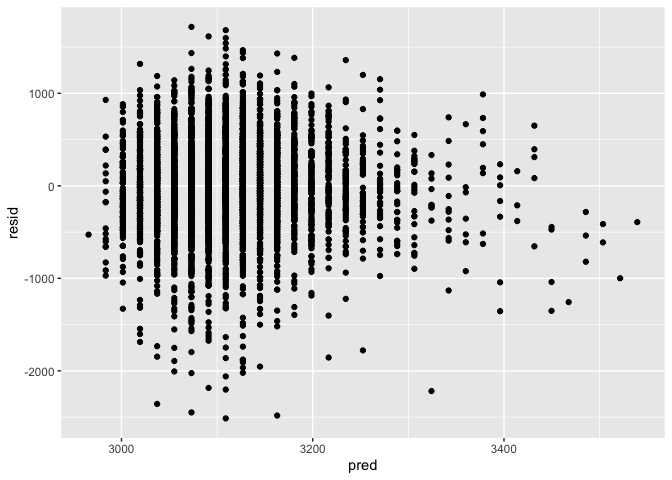
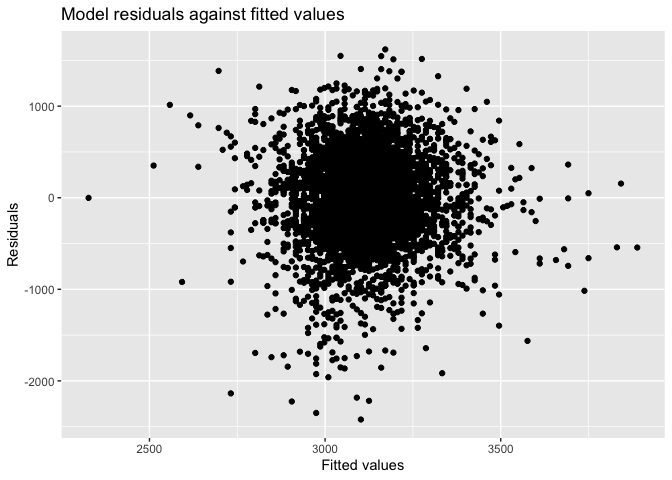
change my model predictor; compare the model with the other two; make a violine plot to show the RMSE

diff --git a/p8105_hw6_ra2965.md b/p8105_hw6_ra2965.md
@@ -4,6 +4,7 @@ p8105\_hw6\_ra2965
 ``` r
 library(modelr)
 library(tidyverse)
+library(mgcv)
 ```
 
 Problem1
@@ -36,8 +37,26 @@ There is no missing values.
 The babies with larger head circumference may have higher birthweight. I hypothesized that the baby birthweight can be associated with bhead: baby’s head circumference at birth (centimeters):
 
 ``` r
-fit = lm(bwt ~ bhead, data = bwt)
+bwt %>% 
+  ggplot(aes(x = wtgain, y = bwt)) +
+  geom_point()
 ```
+
+![](p8105_hw6_ra2965_files/figure-markdown_github/unnamed-chunk-3-1.png) It seems there is a positive association between x and y.
+
+Fit a linear regression model:
+
+``` r
+fit = lm(bwt ~ wtgain, data = bwt)
+
+bwt %>% 
+  add_predictions(fit) %>% 
+  ggplot(aes(x = wtgain, y = bwt)) + 
+  geom_point() +
+  geom_line(aes(y = pred), color = "red")
+```
+
+![](p8105_hw6_ra2965_files/figure-markdown_github/unnamed-chunk-4-1.png)
 
 ``` r
 fit %>% 
@@ -46,12 +65,10 @@ fit %>%
 ```
 
     ## # A tibble: 2 x 5
-    ##   term        estimate std.error statistic p.value
-    ##   <chr>          <dbl>     <dbl>     <dbl>   <dbl>
-    ## 1 (Intercept)   -4831.    107.       -45.0       0
-    ## 2 bhead           236.      3.19      74.0       0
-
-I tried to make a linear regression model with a predictor of momage, which is baby’s head circumference at birth (cm), and a outcome of baby birthweight(gram). The p value of the beta of momage is &lt;0.05, which means that the baby birthweight(gram) is significantly associated with baby’s head circumference at birth (cm) at 5% level of significance.
+    ##   term        estimate std.error statistic  p.value
+    ##   <chr>          <dbl>     <dbl>     <dbl>    <dbl>
+    ## 1 (Intercept)   2859.     17.0       169.  0.      
+    ## 2 wtgain          11.6     0.688      16.8 1.73e-61
 
 ``` r
 fit %>% 
@@ -60,16 +77,20 @@ fit %>%
 ```
 
     ## # A tibble: 1 x 11
-    ##   r.squared adj.r.squared sigma statistic p.value    df  logLik    AIC
-    ##       <dbl>         <dbl> <dbl>     <dbl>   <dbl> <int>   <dbl>  <dbl>
-    ## 1     0.558         0.558  340.     5483.       0     2 -31475. 62957.
+    ##   r.squared adj.r.squared sigma statistic  p.value    df  logLik    AIC
+    ##       <dbl>         <dbl> <dbl>     <dbl>    <dbl> <int>   <dbl>  <dbl>
+    ## 1    0.0611        0.0609  496.      283. 1.73e-61     2 -33112. 66229.
     ## # … with 3 more variables: BIC <dbl>, deviance <dbl>, df.residual <int>
+
+I tried to make a linear regression model with a predictor of mother’s weight gain during pregnancy (pounds), and a outcome of baby birthweight(gram). The p value of the beta of momage is &lt;0.05, which means that the baby birthweight(gram) is significantly associated with mother’s weight gain during pregnancy at 5% level of significance.
+
+### Show a plot of model residuals against fitted values:
 
 ``` r
 bwt %>% 
-  modelr::add_residuals(fit) %>% 
-  modelr::add_predictions(fit) %>% 
-  select(momage, bwt, pred, resid) %>% 
+  add_predictions(fit) %>% 
+  add_residuals(fit) %>% 
+  select(wtgain, bwt, pred, resid) %>% 
   ggplot(aes(x = pred, y = resid)) + 
   geom_point() +
   labs(
@@ -79,16 +100,44 @@ bwt %>%
   )
 ```
 
-![](p8105_hw6_ra2965_files/figure-markdown_github/unnamed-chunk-6-1.png)
+![](p8105_hw6_ra2965_files/figure-markdown_github/unnamed-chunk-5-1.png)
 
 ### Compare my model to two others:
 
 One using length at birth and gestational age as predictors (main effects only):
 
 ``` r
-fit2 = lm(bwt ~ gaweeks + blength, data = bwt)
+bwt_df = crossv_mc(bwt, 100) 
+bwt_df =
+  bwt_df %>% 
+  mutate(
+    train = map(train, as_tibble),
+    test = map(test, as_tibble))
+
+bwt_df = 
+  bwt_df %>% 
+  mutate(fit1_mod  = map(train, ~lm(bwt ~ wtgain, data = .x)),
+         fit2_mod  = map(train, ~lm(bwt ~ gaweeks + blength, data = .x)),
+         fit3_mod  = map(train, ~gam(bwt ~ bhead * blength + bhead * babysex + blength * babysex, data = .x))) %>% 
+  mutate(rmse_fit1 = map2_dbl(fit1_mod, test, ~rmse(model = .x, data = .y)),
+         rmse_fit2 = map2_dbl(fit2_mod, test, ~rmse(model = .x, data = .y)),
+         rmse_fit3 = map2_dbl(fit3_mod, test, ~rmse(model = .x, data = .y)))
 ```
 
+Make a plot showing the distribution of RMSE values for each candidate model:
+
 ``` r
-fit3 = lm(bwt ~ bhead * blength + bhead * babysex + blength * babysex, data = bwt)
+bwt_df %>% 
+  select(starts_with("rmse")) %>% 
+  pivot_longer(
+    everything(),
+    names_to = "model", 
+    values_to = "rmse",
+    names_prefix = "rmse_") %>% 
+  mutate(model = fct_inorder(model)) %>% 
+  ggplot(aes(x = model, y = rmse)) + geom_violin()
 ```
+
+![](p8105_hw6_ra2965_files/figure-markdown_github/unnamed-chunk-7-1.png)
+
+According to the violine plot, the model using head circumference, length, sex, and all interactions (including the three-way interaction) between these factors as predictors is the best.
